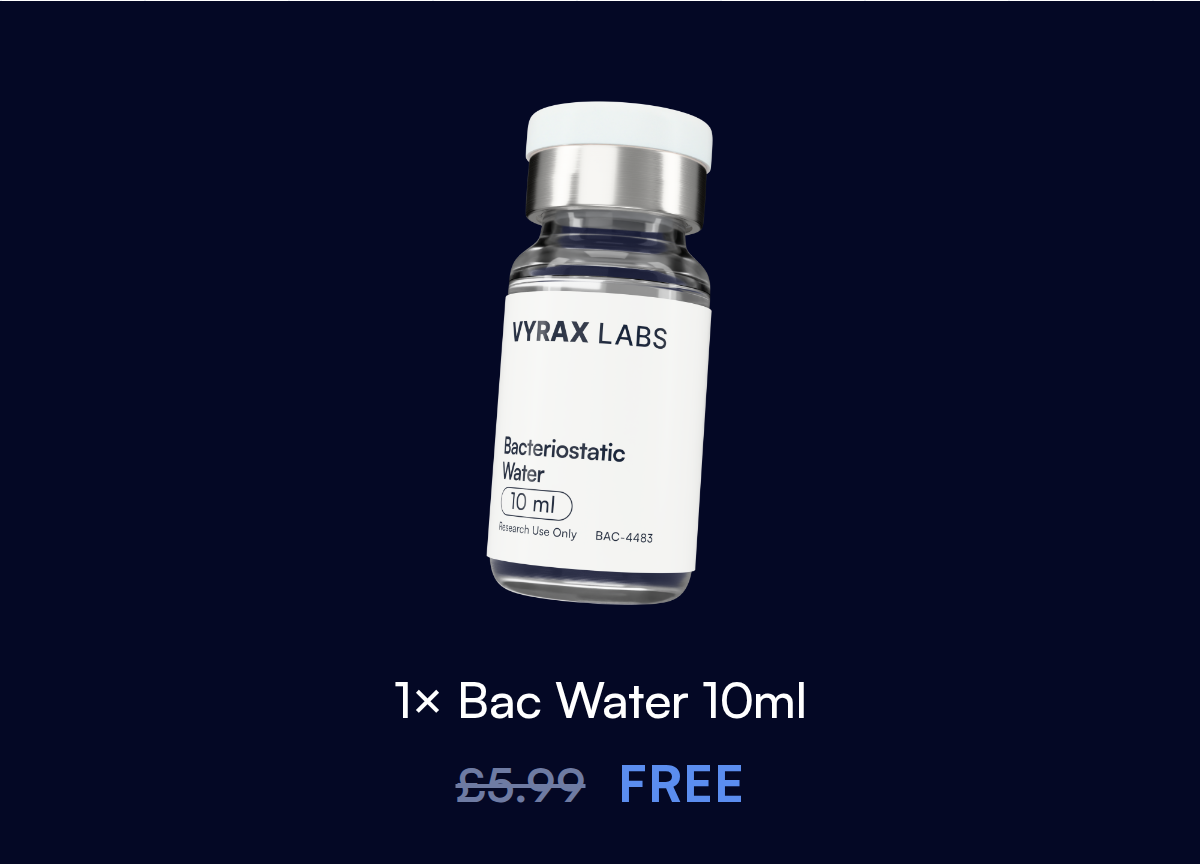
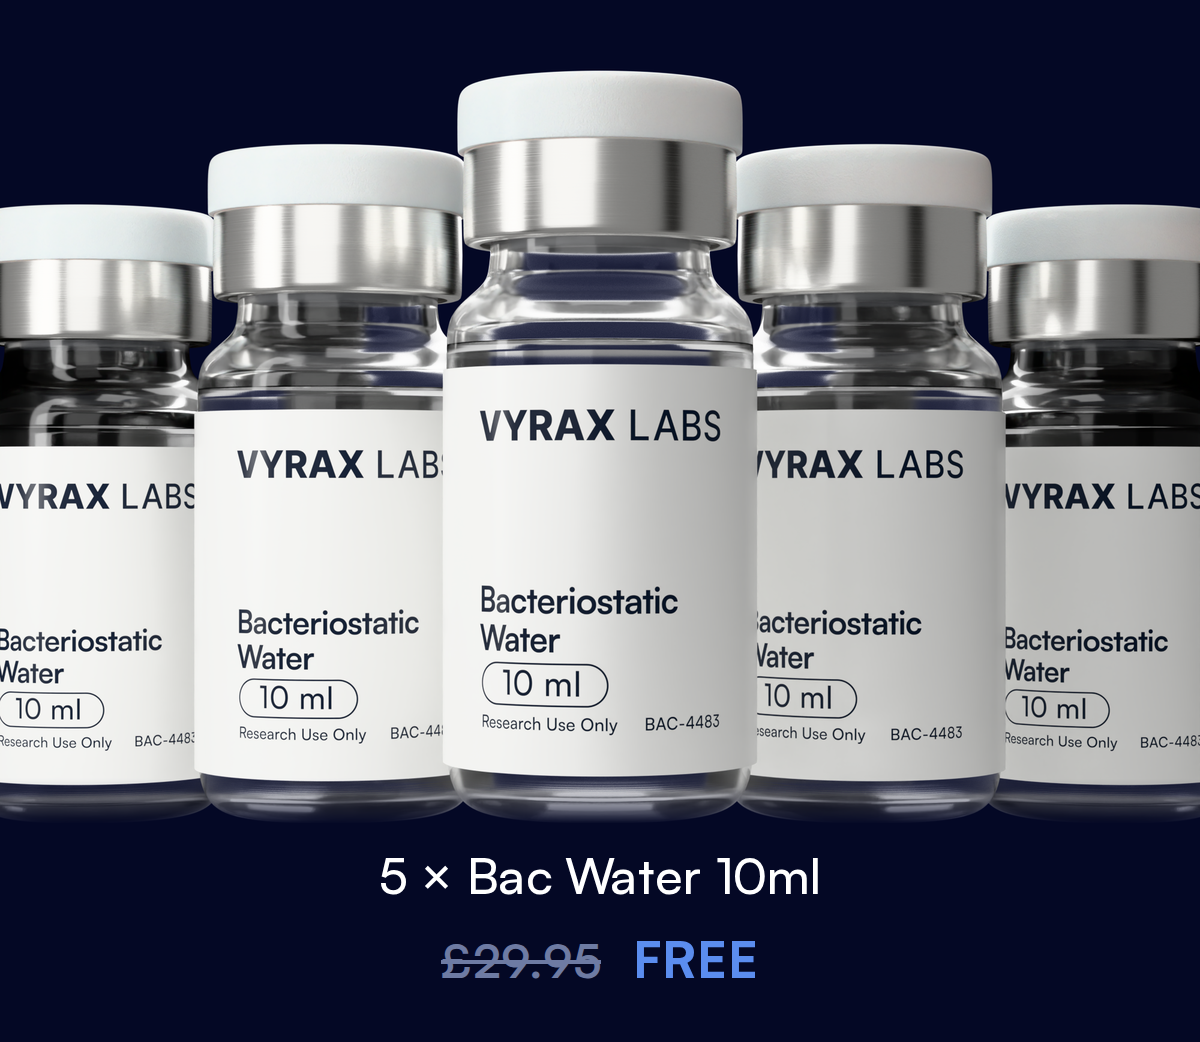
Offer: 5x free Bacteriostatic Water over 75; white seamless PDP base; email gift band

diff --git a/src/lib/email/welcome-image.ts b/src/lib/email/welcome-image.ts
@@ -13,12 +13,12 @@ export function buildWelcomeEmail(o: {
     ? `<a href="${o.unsubscribe}" style="color:#14213D">Unsubscribe</a>`
     : "";
   const imgs =
-    IMG(1, "Up to 20% off your first order, plus free goods", o.shopUrl) +
-    IMG(2, "Free delivery 50, free water 75, 10% off 150, 15% off 250, 20% off 400", o.shopUrl) +
+    IMG(1, "Up to 20% off your first order, plus five free bac water vials", o.shopUrl) +
+    IMG(2, "Five free bac water vials over 75, free delivery over 50, 10% off 150, 15% off 250, 20% off 400", o.shopUrl) +
     IMG(3, "Most requested: BPC-157, retatrutide, GHK-Cu", o.shopUrl) +
     IMG(4, "Every report we publish is the lab's own", o.shopUrl);
   const head = `<!doctype html><html lang="en"><head><meta charset="utf-8"><meta name="viewport" content="width=device-width,initial-scale=1"><title>Your code</title><style>@media (prefers-color-scheme:dark){body{background:#0E1730!important}table{background:#0E1730!important}}</style></head><body style="margin:0;padding:0;background:#FFFFFF"><div style="display:none;font-size:1px;color:#FFFFFF;max-height:0;overflow:hidden">Your code is inside, plus the free goods you unlock as the basket grows.</div><table role="presentation" width="100%" cellspacing="0" cellpadding="0" bgcolor="#FFFFFF"><tr><td align="center"><table role="presentation" width="600" cellspacing="0" cellpadding="0" style="width:100%;max-width:600px;background:#FFFFFF">`;
-  const bits = `<tr><td style="padding:18px 28px 26px;font-family:-apple-system,Segoe UI,Helvetica,Arial,sans-serif;text-align:center"><p style="margin:0 0 8px;font-size:14px;color:#14213D">Code <strong>${o.code}</strong>. Free delivery over 50, free water over 75, 10% over 150, 15% over 250, 20% over 400.</p>`;
+  const bits = `<tr><td style="padding:18px 28px 26px;font-family:-apple-system,Segoe UI,Helvetica,Arial,sans-serif;text-align:center"><p style="margin:0 0 8px;font-size:14px;color:#14213D">Code <strong>${o.code}</strong>. Free delivery over 50, five free bac water vials over 75, 10% over 150, 15% over 250, 20% over 400.</p>`;
   const legal = `Sold for research use only. Not a licensed medicine. No dose is on the label.`;
   const policy = `Research use policy: ${SITE_URL}/research-use-policy`;
   const links = `<a href="${o.shopUrl}" style="color:#14213D">Shop</a> · <a href="mailto:${o.contactEmail}" style="color:#14213D">${o.contactEmail}</a>${foot ? ` · ${foot}` : ""}`;
@@ -28,6 +28,6 @@ export function buildWelcomeEmail(o: {
     ? `<tr><td align="center" style="padding:0 28px 16px;font-family:-apple-system,Segoe UI,Helvetica,Arial,sans-serif"><p style="margin:0;font-size:13px;line-height:1.6;color:#4A5568">Your reconstitution guide is ready: <a href="${o.guideUrl}" style="color:#14213D;font-weight:700">download the PDF</a></p></td></tr>`
     : "";
   const html = head + brand + guide + imgs + bits + tail;
-  const text = [`Vyrax Labs`, ``, `Your code: ${o.code}`, "", "Up to 20% off your first order.", "Free delivery over 50, free water over 75, 10% over 150, 15% over 250, 20% over 400.", o.guideUrl ? `Guide: ${o.guideUrl}` : "", "", legal, policy, o.unsubscribe ? `Unsubscribe: ${o.unsubscribe}` : "Unsubscribe: mailto:"+o.contactEmail, o.shopUrl, o.contactEmail];
+  const text = [`Vyrax Labs`, ``, `Your code: ${o.code}`, "", "Up to 20% off your first order.", "Free delivery over 50, five free bac water vials over 75, 10% over 150, 15% over 250, 20% over 400.", o.guideUrl ? `Guide: ${o.guideUrl}` : "", "", legal, policy, o.unsubscribe ? `Unsubscribe: ${o.unsubscribe}` : "Unsubscribe: mailto:"+o.contactEmail, o.shopUrl, o.contactEmail];
   return { html, text };
 }

diff --git a/src/lib/checkout-pricing.ts b/src/lib/checkout-pricing.ts
@@ -56,19 +56,16 @@ export function quoteCheckout(input: unknown, code?: string | null) {
       ?.rate ?? 0;
   const tierDiscountPence = Math.round(afterOffer * rate);
   const goodsPence = afterOffer - tierDiscountPence;
-  // Free gift: a real £0 line on the order record (not in the payment amount) so the packer
-  // dispatches it. Never added when the customer already bought the same vial.
+  // Free gift: real £0 lines on the order record (not in the payment amount) so the packer
+  // dispatches them. Granted on goods value alone; buying the same vial does not cancel it.
   const giftRule = site.firstOrderGift;
-  const alreadyHasGift = giftRule
-    ? items.some((i) => i.slug === giftRule.slug && i.strength === giftRule.strength)
-    : false;
-  const giftApplies = Boolean(giftRule && !alreadyHasGift && goodsPence >= giftRule.over * 100);
+  const giftApplies = Boolean(giftRule && goodsPence >= giftRule.over * 100);
   const giftLine = giftApplies
     ? {
         slug: giftRule!.slug,
         name: giftRule!.label,
         strength: giftRule!.strength,
-        quantity: 1,
+        quantity: giftRule!.quantity,
         unitPence: 0,
         linePence: 0,
         gift: true as const,
@@ -85,7 +82,9 @@ export function quoteCheckout(input: unknown, code?: string | null) {
     throw new Error("Invalid total");
   return {
     items: orderLines,
-    gift: giftLine ? { name: giftLine.name, strength: giftLine.strength } : undefined,
+    gift: giftLine
+      ? { name: giftLine.name, strength: giftLine.strength, quantity: giftLine.quantity }
+      : undefined,
     promo:
       promoApplied && promoPenceApplied > 0
         ? {

diff --git a/src/lib/gift.test.ts b/src/lib/gift.test.ts
@@ -13,19 +13,23 @@ test("free gift line appears once the basket passes the threshold", () => {
   const line = big.items.find((i) => i.slug === gift.slug);
   expect(line).toBeTruthy();
   expect(line!.unitPence).toBe(0);
-  expect(line!.quantity).toBe(1);
+  expect(line!.quantity).toBe(gift.quantity);
   // The gift must never change what the customer pays.
   const paidGoods = big.subtotalPence - big.freeVialsPence - big.tierDiscountPence;
   expect(big.totalPence).toBe(paidGoods + big.deliveryPence);
 });
 
-test("no duplicate gift when the customer already buys the same vial", () => {
+test("buying the same vial does not cancel the gift", () => {
   const q = quoteCheckout([
     { slug: "bpc-157", strength: "10mg", quantity: 6 },
     { slug: gift.slug, strength: gift.strength, quantity: 1 },
   ]);
-  expect(q.gift).toBeUndefined();
-  expect(q.items.filter((i) => i.slug === gift.slug).length).toBe(1);
+  expect(q.gift?.quantity).toBe(gift.quantity);
+  // Two lines: the one they paid for, and the free one.
+  const bacLines = q.items.filter((i) => i.slug === gift.slug);
+  expect(bacLines.length).toBe(2);
+  expect(bacLines.find((l) => l.gift)!.quantity).toBe(gift.quantity);
+  expect(bacLines.find((l) => !l.gift)!.unitPence).toBeGreaterThan(0);
 });
 
 test("gift threshold is honoured to the penny", () => {

diff --git a/src/styles.css b/src/styles.css
@@ -144,7 +144,8 @@
 }
 
 /* Vyrax Labs research storefront.
- * Palette: paper #F5F0E5 background, ink #040825 text, tint #EAE6DC panels, warm #AC4821 accent
+ * Palette: white #FFFFFF page and product surfaces so white-background renders merge with no
+ * seam, ink #040825 text, sand #F4F1EA chips/bands, warm #AC4821 accent
  * (sparingly), line #DDD7C8 hairlines. Existing --ink tokens keep working for dark panels. */
 @font-face {
   font-family: "Satoshi";
@@ -162,10 +163,10 @@
 }
 :root {
   --radius: 0.75rem;
-  --paper: oklch(0.956 0.016 86.4);
-  --paper-deep: oklch(0.938 0.016 86.4);
-  --tint: oklch(0.925 0.014 88.7);
-  --line: oklch(0.88 0.021 88.7);
+  --paper: #ffffff;
+  --paper-deep: #fbfaf7;
+  --tint: #f4f1ea;
+  --line: #e8e4da;
   --warm: oklch(0.528 0.141 40.2);
   --warm-foreground: oklch(0.99 0.005 86);
   --background: var(--paper);
@@ -503,9 +504,6 @@ textarea:focus-visible,
   outline: 2px solid var(--primary);
   outline-offset: 2px;
 }
-
-/* Seamless product pages: pure white page behind the white-edged renders */
-.bg-paper:has([data-pdp-gallery]) { background-color: #fff; }
 
 /* Offer popup entrance: fade + lift, disabled for reduced motion. */
 @keyframes offer-panel-in {

diff --git a/src/data/site.ts b/src/data/site.ts
@@ -51,16 +51,25 @@ export const site = {
     { slug: "retatrutide", strength: "10mg" },
     { slug: "tirzepatide", strength: "20mg" },
   ],
-  // Free gift added automatically once goods reach `over`. Fulfilled as a real £0 order line so the
-  // packer sees it; mirrored in priceBasket and quoteCheckout. Null disables it.
+  // Free gift added automatically once goods reach `over`. Fulfilled as `quantity` real £0 order
+  // lines so the packer sees them; mirrored in priceBasket and quoteCheckout. Null disables it.
   firstOrderGift: {
     slug: "bacteriostatic-water",
     strength: "10ml",
-    label: "Bacteriostatic Water 10ml",
-    short: "10ml Bac Water",
-    value: 5.99,
+    label: "5 × Bacteriostatic Water 10ml",
+    short: "5× Bac Water",
+    quantity: 5,
+    value: 29.95,
     over: 75,
-  } as { slug: string; strength: string; label: string; short: string; value: number; over: number } | null,
+  } as {
+    slug: string;
+    strength: string;
+    label: string;
+    short: string;
+    quantity: number;
+    value: number;
+    over: number;
+  } | null,
 };
 
 export const abs = (path: string) => SITE_URL + (path.startsWith("/") ? path : "/" + path);

diff --git a/src/lib/basket-pricing.ts b/src/lib/basket-pricing.ts
@@ -34,15 +34,13 @@ export function priceBasket(items: CartItem[], code?: string | null) {
   const next = [...tiers].reverse().find((t) => afterP < t.over * 100);
   const gbpOf = (p: number) => p / 100;
   const giftRule = site.firstOrderGift;
-  const hasGiftAlready = giftRule
-    ? items.some((i) => i.slug === giftRule.slug && i.strength === giftRule.strength)
-    : false;
+  // The gift is an offer, so it is granted on goods value alone. Buying the same vial does not
+  // cancel it (that would silently cost the customer the whole gift).
   const gift =
-    giftRule && !hasGiftAlready && goodsP >= giftRule.over * 100
-      ? { label: giftRule.label, value: giftRule.value }
+    giftRule && goodsP >= giftRule.over * 100
+      ? { label: giftRule.label, quantity: giftRule.quantity, value: giftRule.value }
       : undefined;
-  const giftGap =
-    giftRule && !hasGiftAlready ? gbpOf(Math.max(0, giftRule.over * 100 - goodsP)) : undefined;
+  const giftGap = giftRule ? gbpOf(Math.max(0, giftRule.over * 100 - goodsP)) : undefined;
   return {
     subtotal: gbpOf(subtotalP),
     freeVials: gbpOf(freeP),

diff --git a/src/components/shell/TierRail.tsx b/src/components/shell/TierRail.tsx
@@ -8,7 +8,7 @@ type Step = { id: string; label: string; at: number; kind: "delivery" | "gift" |
 function ladder(): Step[] {
   const gift = site.firstOrderGift;
   const out: Step[] = [{ id: "delivery", label: "Free delivery", at: site.freeDeliveryThreshold, kind: "delivery" }];
-  if (gift) out.push({ id: "gift", label: "Free Bac Water", at: gift.over, kind: "gift" });
+  if (gift) out.push({ id: "gift", label: `Free ${gift.short}`, at: gift.over, kind: "gift" });
   for (const t of [...site.spendTiers].sort((a, b) => a.over - b.over)) {
     out.push({ id: `pct-${t.over}`, label: `${Math.round(t.rate * 100)}% off`, at: t.over, kind: "pct", pct: Math.round(t.rate * 100) });
   }

diff --git a/src/routes/basket.tsx b/src/routes/basket.tsx
@@ -140,8 +140,8 @@ function Basket() {
                 )}
                 {!p.gift && p.giftGap !== undefined && p.giftGap > 0 && site.firstOrderGift && (
                   <p className="text-xs text-muted-foreground mt-3 flex items-center gap-1.5">
-                    <Tag size={13} /> Add {gbp(p.giftGap)} more for a free{" "}
-                    {site.firstOrderGift.label}
+                    <Tag size={13} /> Add {gbp(p.giftGap)} more for{" "}
+                    {site.firstOrderGift.short} free
                   </p>
                 )}
                 {p.nextTier && (

diff --git a/src/components/ProductGallery.tsx b/src/components/ProductGallery.tsx
@@ -24,7 +24,7 @@ export function ProductGallery({
       <figure
         data-testid="pdp-gallery"
         data-pdp-gallery
-        className={`relative overflow-hidden rounded-[20px] bg-[#EAE6DC] ${showReport ? "" : "aspect-[4/5]"}`}
+        className={`relative overflow-hidden rounded-[20px] bg-white ${showReport ? "" : "aspect-[4/5]"}`}
       >
         {showReport && report ? (
           <a

diff --git a/src/data/offers.ts b/src/data/offers.ts
@@ -27,6 +27,7 @@ export type OfferGift = {
   strength: string;
   label: string;
   short: string;
+  quantity: number;
   value: number;
   over: number;
 };
